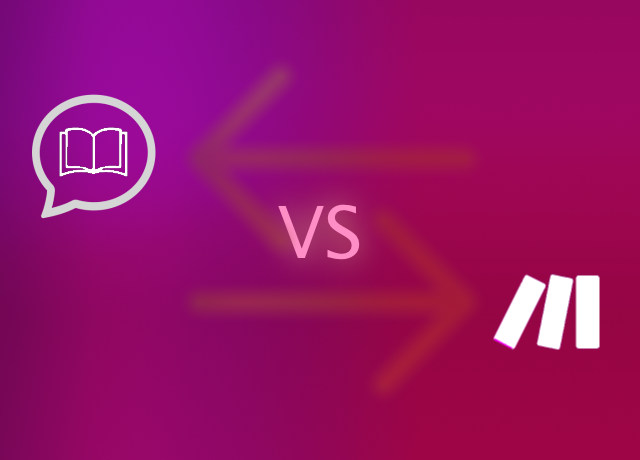
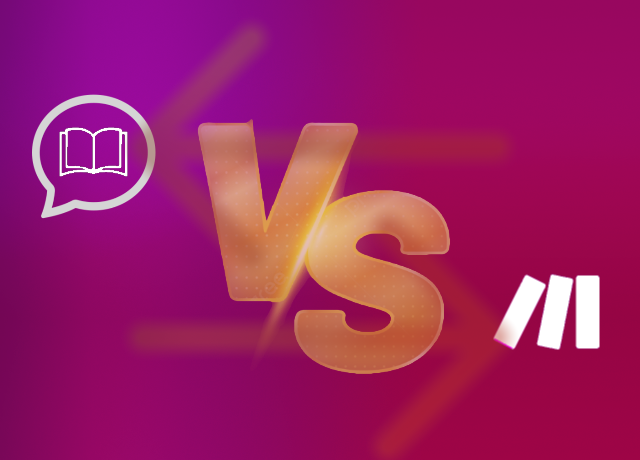
Adding compare chatgot

Changed region(s): [[0.1875, 0.0609, 0.7188, 0.8217], [0.75, 0.7, 0.8125, 0.7609]]

diff --git a/_includes/footer.html b/_includes/footer.html
@@ -24,7 +24,8 @@
            <ul class="list-unstyled small mb-0">
              <li class="mb-2"><a href="/compare/n8n" class="text-reset text-decoration-none">ChatterKB vs n8n</a></li>
              <li class="mb-2"><a href="/compare/gumloop" class="text-reset text-decoration-none">ChatterKB vs Gumloop</a></li>
-             <li><a href="/compare/make" class="text-reset text-decoration-none">ChatterKB vs Make</a></li>
+             <li class="mb-2"><a href="/compare/make" class="text-reset text-decoration-none">ChatterKB vs Make</a></li>
+             <li><a href="/compare/chatgpt" class="text-reset text-decoration-none">ChatterKB vs ChatGPT</a></li>
            </ul>
          </div>
 
@@ -72,6 +73,7 @@
                    <li><a href="/compare/n8n" class="text-reset text-decoration-none">ChatterKB vs n8n</a></li>
                    <li><a href="/compare/gumloop" class="text-reset text-decoration-none">ChatterKB vs Gumloop</a></li>
                    <li><a href="/compare/make" class="text-reset text-decoration-none">ChatterKB vs Make</a></li>
+                   <li><a href="/compare/chatgpt" class="text-reset text-decoration-none">ChatterKB vs ChatGPT</a></li>
                  {% when 'Resources' %}
                    <li><a href="/articles" class="text-reset text-decoration-none">Articles</a></li>
                    <li><a href="/workflow-library" class="text-reset text-decoration-none">Workflow Library</a></li>
